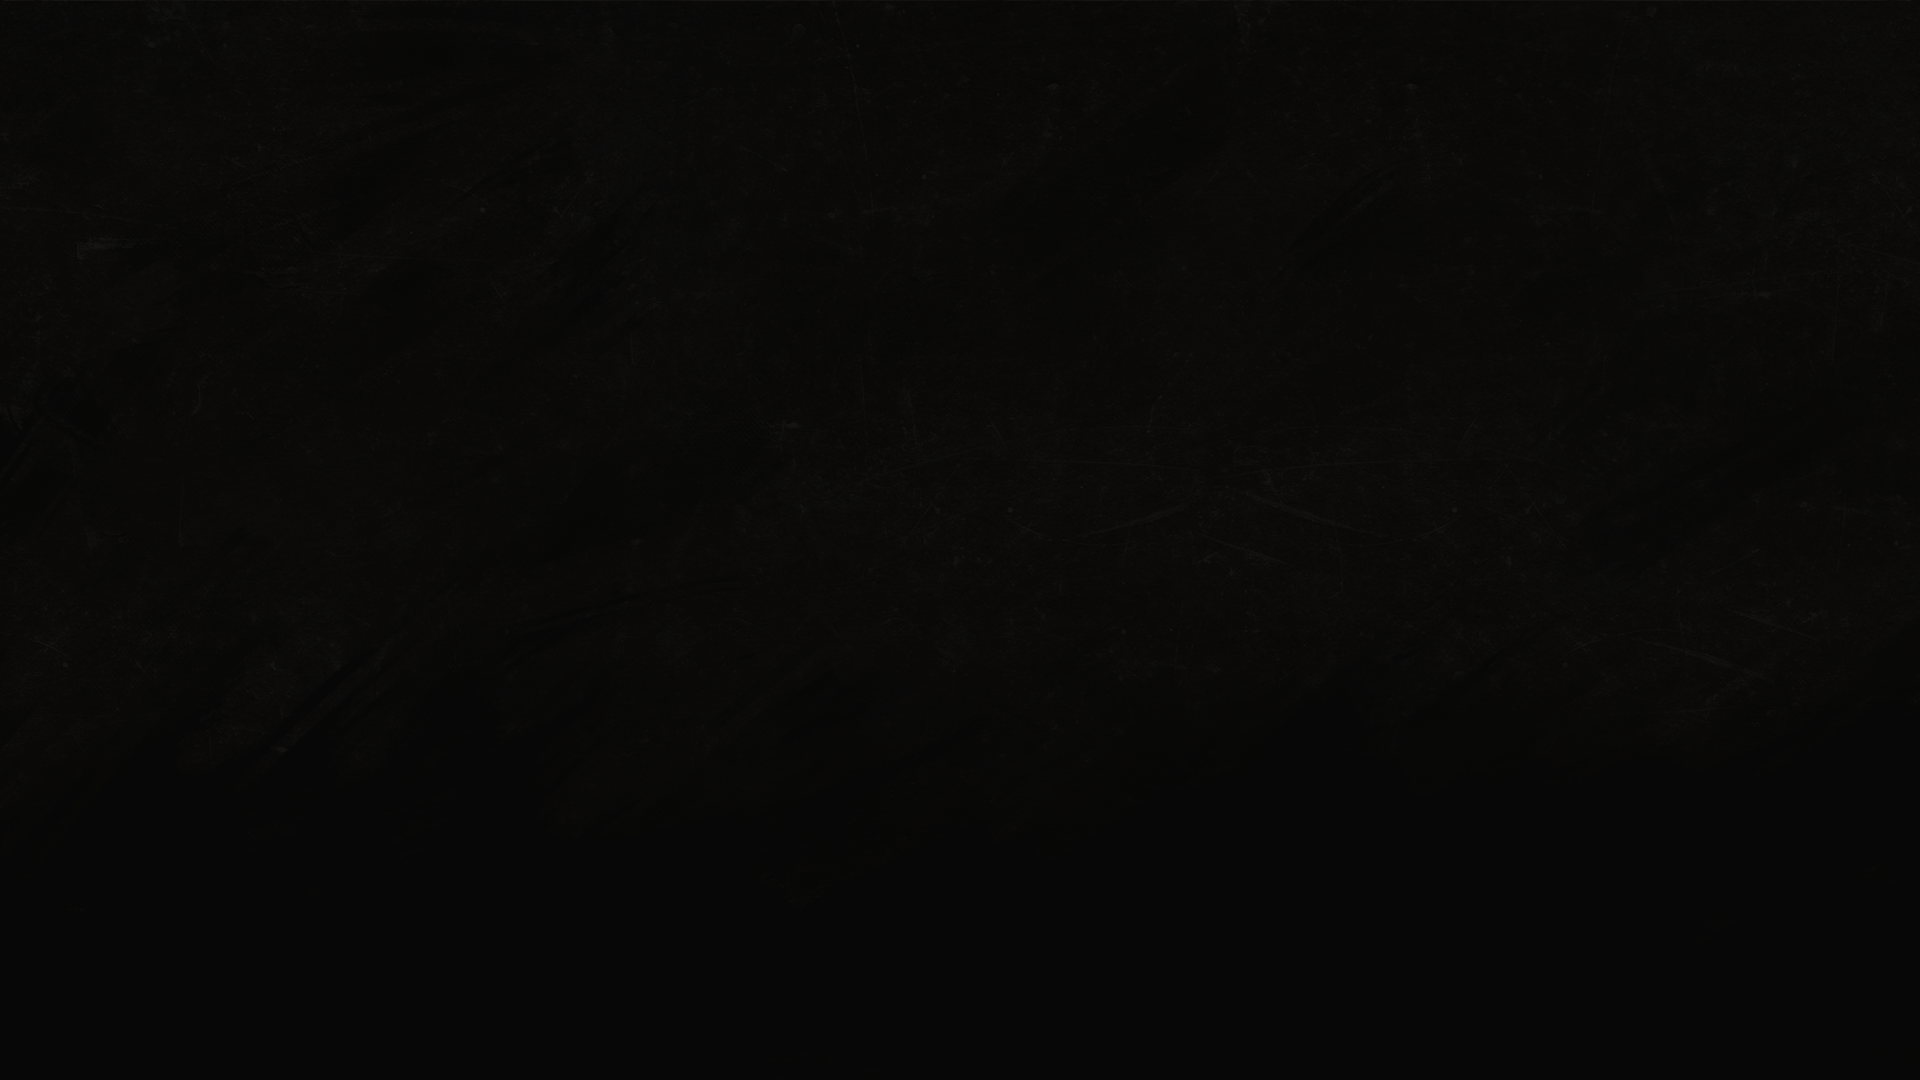
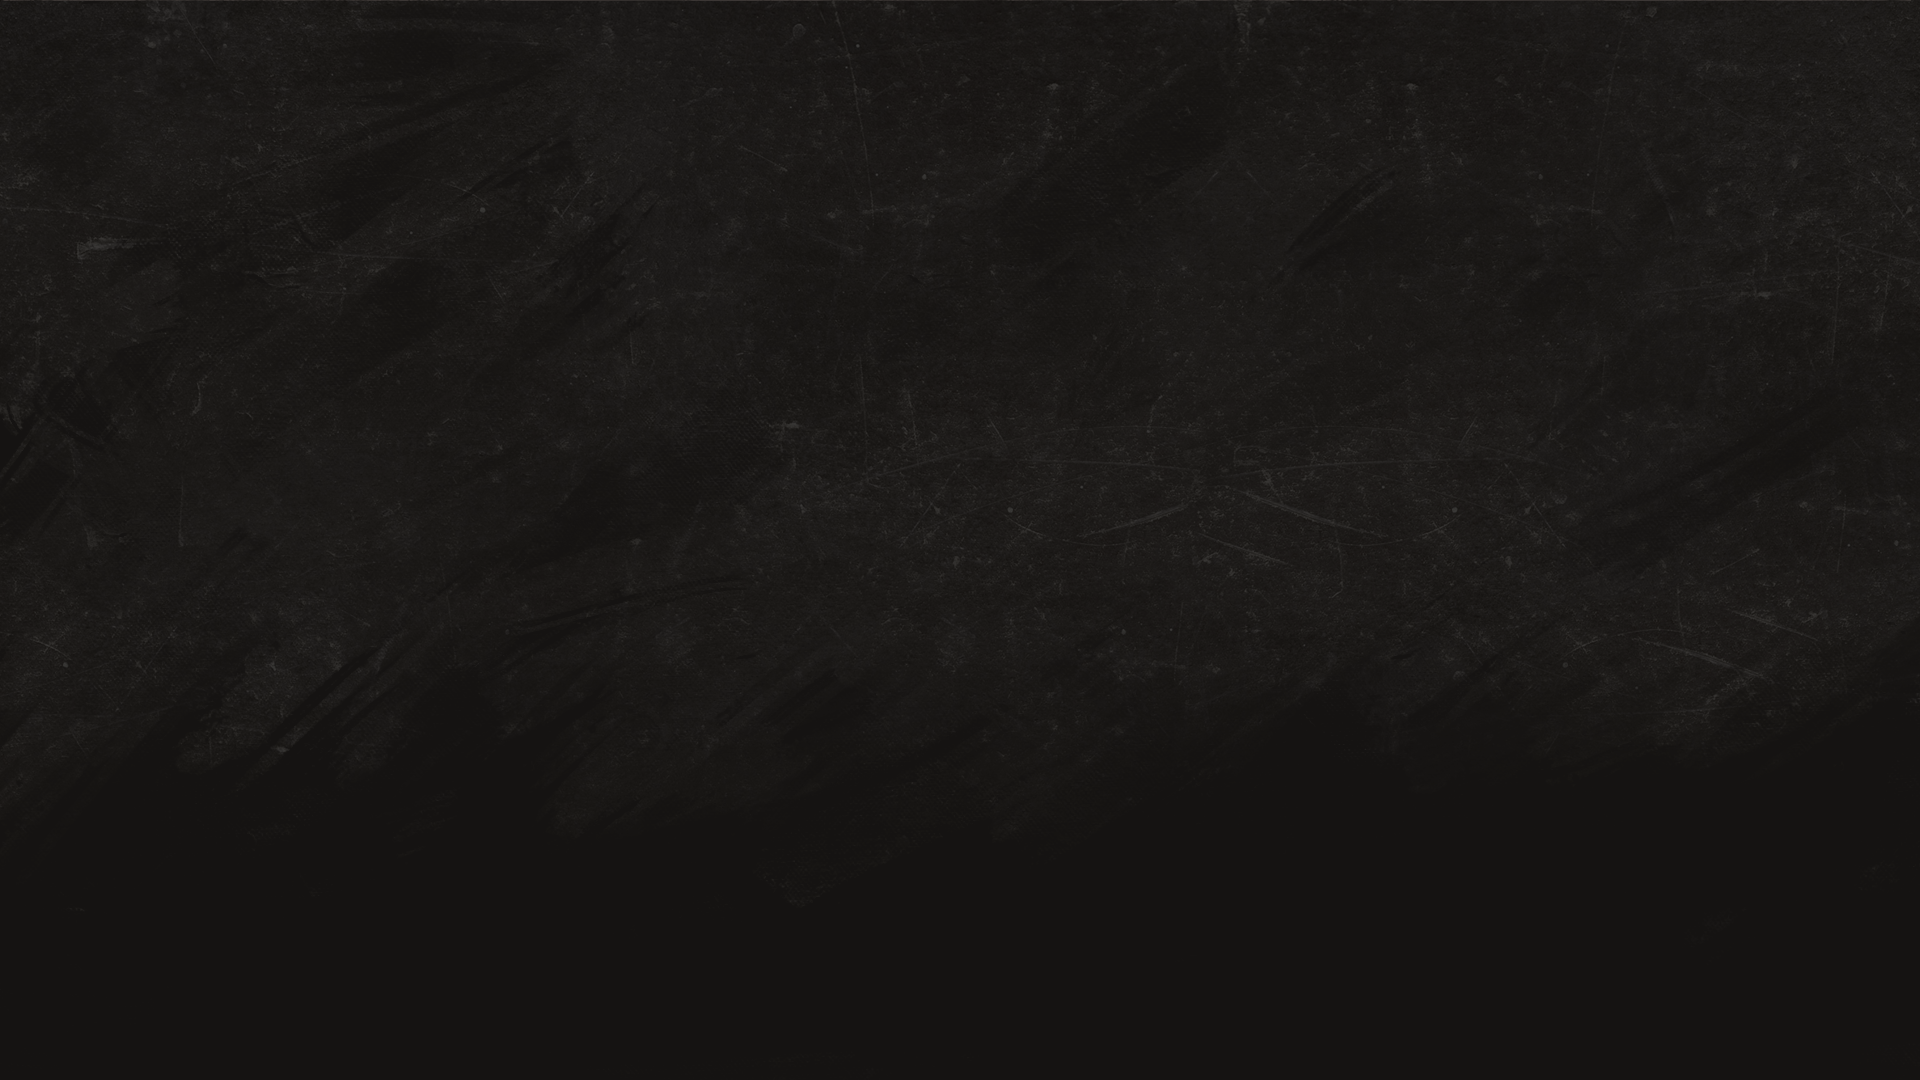
Minor modifications to new settings styles
Use same bg image as MOTD and decrease padding on sides

Fix buttons

diff --git a/game/hud/src/components/GameMenu/index.tsx b/game/hud/src/components/GameMenu/index.tsx
@@ -24,9 +24,8 @@ const OuterContainer = styled('div')`
 const Container = styled('div')` {
   position: relative;
   pointer-events: all;
-  width: 320px;
+  width: 257px;
   height: 152px;
-  padding: 0px;
   margin:0 auto;
   background-color: gray;
   color: white;
@@ -57,8 +56,8 @@ const MenuTitle = styled('div')` {
 
 const MenuCorner = styled('div')` {
   position: absolute;
-  min-width: 320px;
-  min-height: 152px;
+  width: 100%;
+  height: 100%;
   background:
   url(images/gamemenu/gamemenu-ornament-top-left.png) left 0 top 0 no-repeat,
   url(images/gamemenu/gamemenu-ornament-top-right.png) right 0 top 0 no-repeat,
@@ -97,6 +96,7 @@ const MenuContent = styled('div')` {
   width: calc(100% - 40px);
 `;
 const MenuButton = styled('div')`
+  position: relative;
   background: url(images/gamemenu/button-big-off.png) no-repeat;
   height: 30px;
   width: 200px;
@@ -119,9 +119,8 @@ const MenuButton = styled('div')`
       content: '';
       position: absolute;
       background-image: url(images/gamemenu/button-glow.png);
-      width: 198px;
-      height: 30px;
-      left: 61px;
+      width: 100%;
+      height: 100%;
       background-size: cover;
     }
   }
